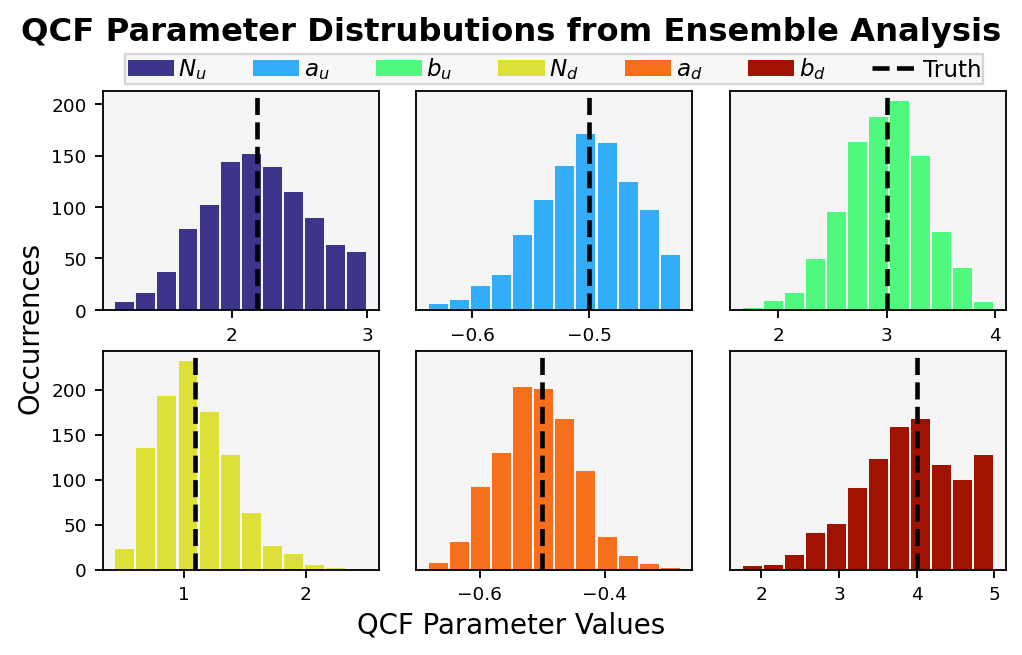
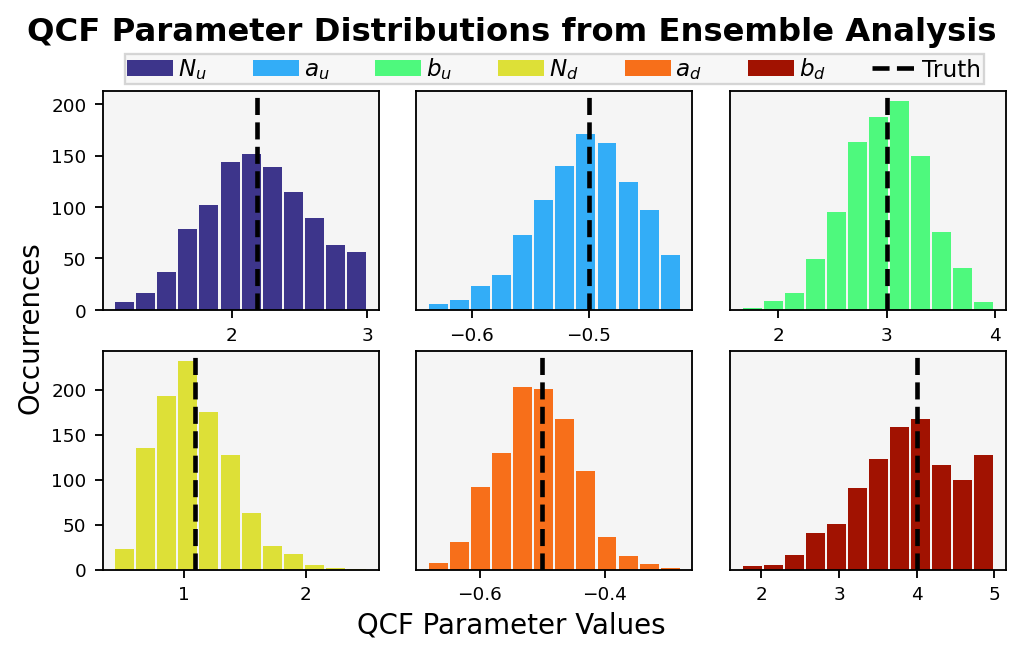
fix typo in a figure's title

diff --git a/postprocess_5.py b/postprocess_5.py
@@ -108,7 +108,7 @@ axs[-1].legend(
 fig.supylabel("Occurrences", fontsize=12)
 fig.supxlabel("QCF Parameter Values", fontsize=12)
 fig.suptitle(
-    "QCF Parameter Distrubutions from Ensemble Analysis",
+    "QCF Parameter Distributions from Ensemble Analysis",
     fontsize=14, weight="bold"
 )
 fig.savefig(imgdir.joinpath("ensemble_analysis.png"), bbox_inches="tight")
